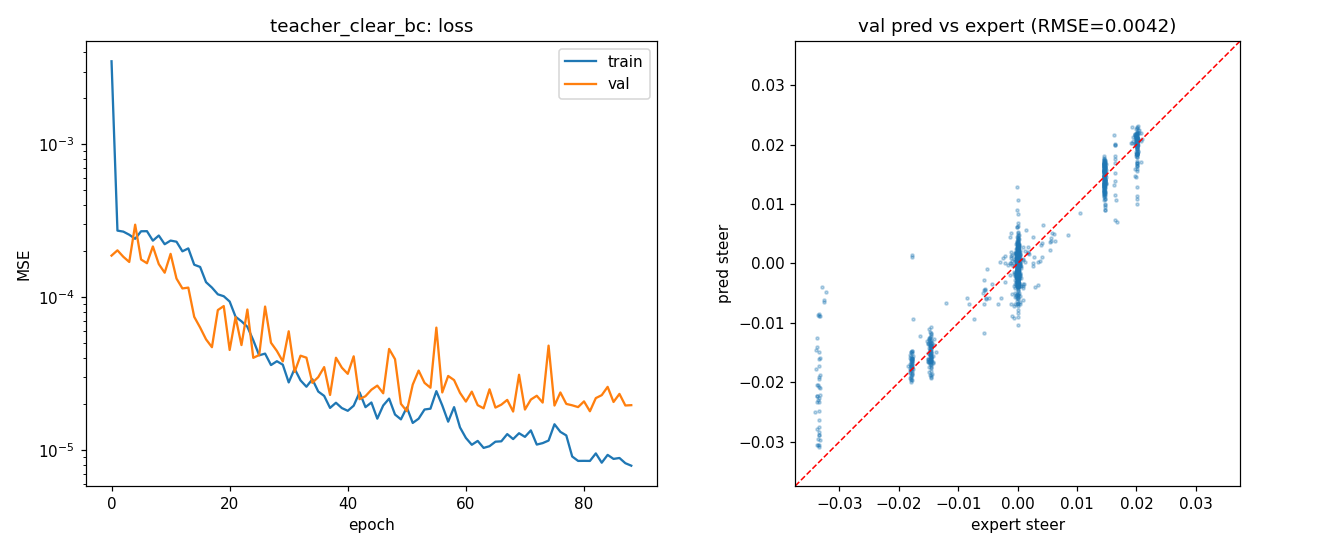
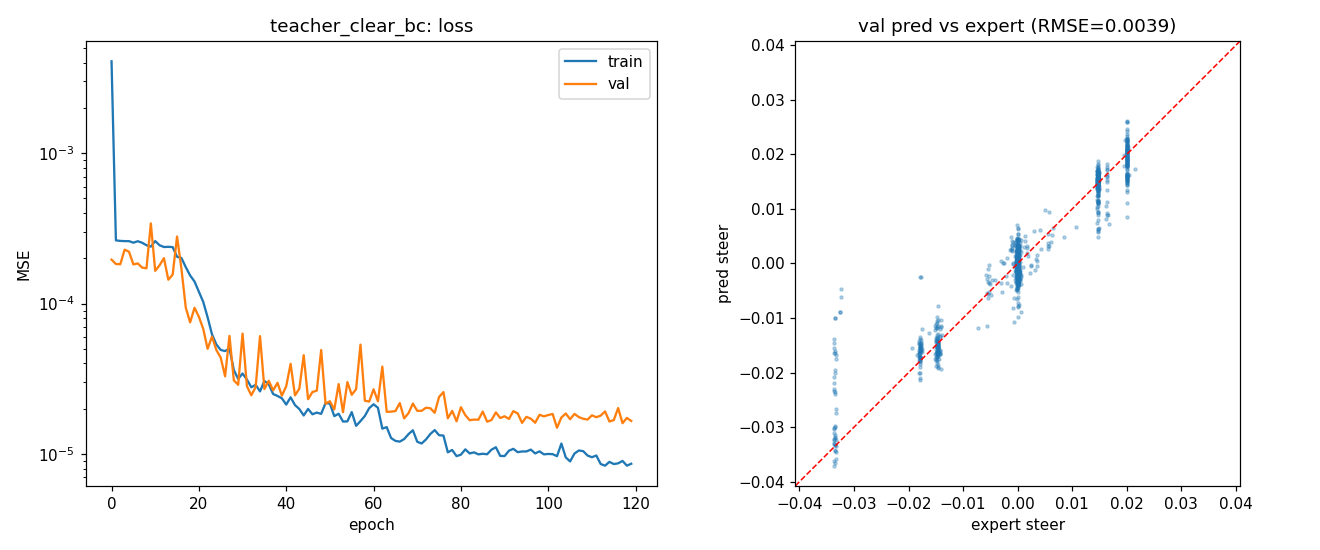
Fix one-tick spectator lag: place the chase camera where the car will be
Zach noticed the render lurching forward and snapping back while watching.

CAUSE. All five drive loops call update_spectator() immediately BEFORE
world.tick(), and CARLA applies a spectator set_transform on that same tick --
the same next-tick semantics that caused the weather preset race. So the camera
was placed from the PRE-tick pose while the tick moved the car forward: 1.79 m of
position error every frame at 20 mph and dt=0.2 s, plus a stale yaw, which on
curves reads as a swing rather than a smooth trail.

FIX. Extrapolate the placement by velocity * FIXED_DT so the camera is put where
the vehicle will be when the tick lands, and both arrive together. Done in the
one function rather than reordering statements across five files, since the
teacher rebuild chain will import these modules for its next stage and a
cosmetic change should not be able to break it.

Purely cosmetic: the spectator is not the sensor camera, and nothing captured,
controlled or measured depends on it.

NOT fixed, and not fixable: the residual 5 Hz stepping. FIXED_DT = 0.2 s is the
control rate the study is defined at, so the motion really is five discrete steps
per second. Smoothing it would mean changing the physics and invalidating every
CTE number measured so far, which is not worth a nicer-looking window.

Third instance of CARLA's write-applies-next-tick semantics biting in one
session, after the sensor queue (trap 2) and the weather presets. Worth treating
[…]

diff --git a/pipeline/carla_env.py b/pipeline/carla_env.py
@@ -352,10 +352,28 @@ def _drain(img_queue):
 # ── Spectator / images / cleanup ─────────────────────────────────────────────
 
 def update_spectator(world, vehicle):
+    """Chase camera, placed one tick AHEAD of the vehicle's current pose.
+
+    Every drive loop calls this immediately before `world.tick()`, and CARLA applies a
+    `set_transform` on that same tick -- the same next-tick semantics as `set_weather`.
+    So placing the camera from the pre-tick pose leaves it a full step behind the car it
+    is following: 1.8 m at 20 mph and dt=0.2 s, with a stale yaw on top, which reads as
+    the view lurching and swinging rather than trailing smoothly.
+
+    Extrapolating by velocity * FIXED_DT cancels that: the camera is placed where the
+    vehicle WILL be when the tick lands, so both arrive together.
+
+    Purely cosmetic. The spectator is not the sensor camera -- nothing captured,
+    controlled or measured depends on it. The residual 5 Hz stepping is inherent:
+    FIXED_DT is the control rate the study is defined at, so the motion is genuinely
+    five discrete steps per second and cannot be smoothed without changing the physics.
+    """
     try:
         tf = vehicle.get_transform()
+        v = vehicle.get_velocity()
+        lead = carla.Location(x=v.x * FIXED_DT, y=v.y * FIXED_DT, z=0.0)
         fwd = tf.get_forward_vector()
-        loc = tf.location - 6.0 * fwd + carla.Location(z=3.5)
+        loc = tf.location + lead - 6.0 * fwd + carla.Location(z=3.5)
         rot = carla.Rotation(pitch=-15.0, yaw=tf.rotation.yaw)
         world.get_spectator().set_transform(carla.Transform(loc, rot))
     except Exception:
